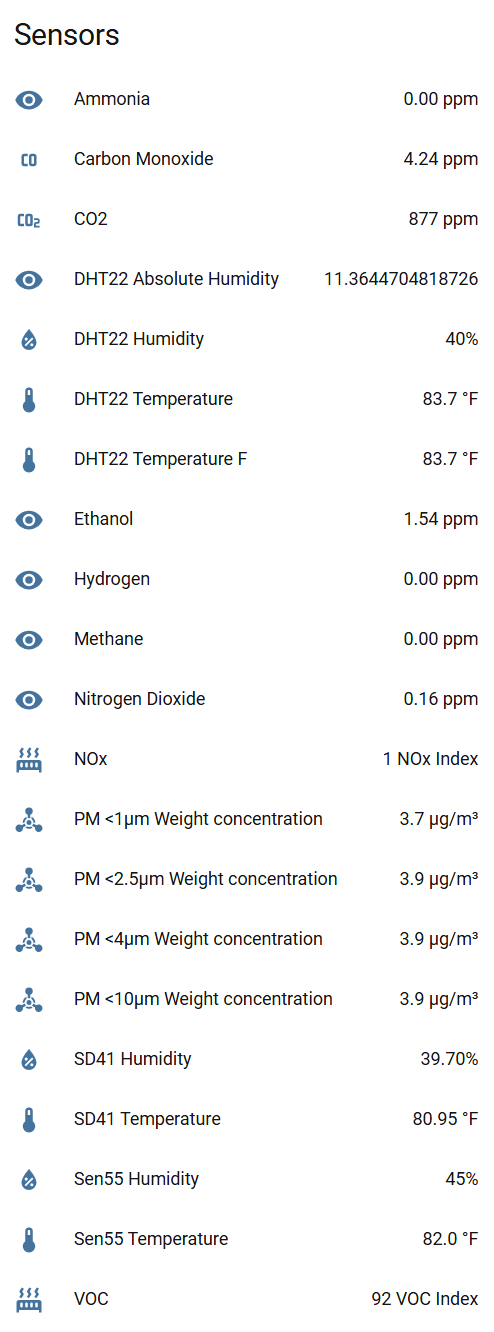
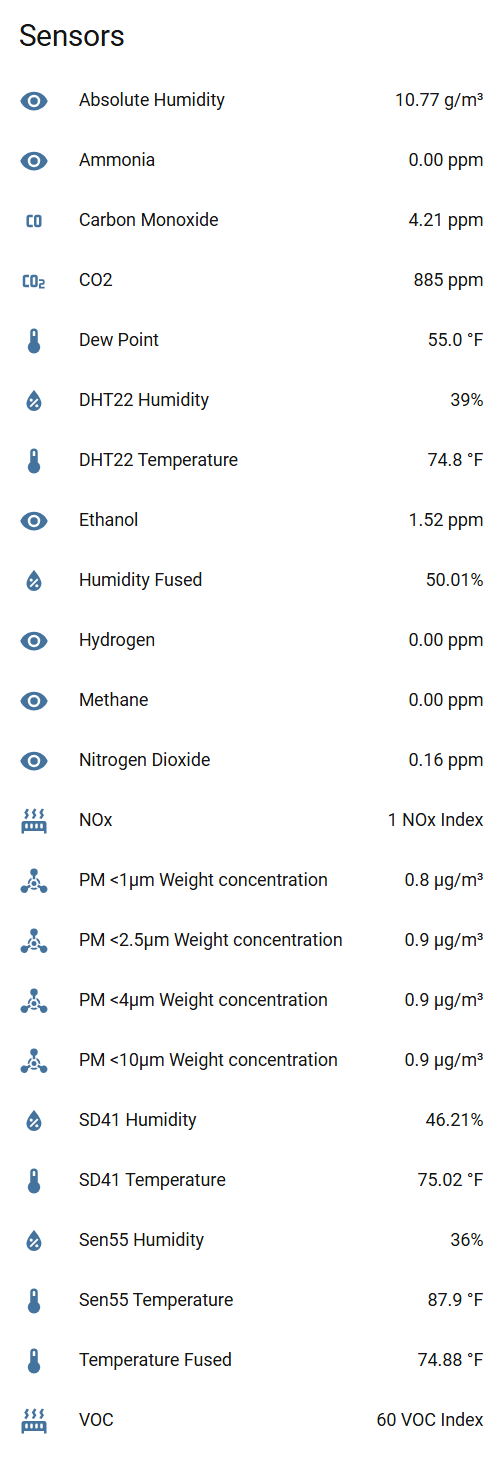
updates

diff --git a/README.md b/README.md
@@ -64,6 +64,8 @@ All 3D printable files and print profiles for the enclosures are hosted on Maker
 
 **This is not a safety device.** The MICS-4514 is an uncalibrated metal-oxide sensor whose readings drift substantially with temperature and humidity; its ppm figures are useful as relative trends, not absolute concentrations. Do not rely on the carbon monoxide reading for life safety — use a certified CO alarm. The same applies to the methane channel and gas leak detection.
 
+This project was made partially with assistance using Claude. 3D models were designed manually using OnShape.
+
 ---
 
 ## Wiring
@@ -153,7 +155,7 @@ BL - grey - GPIO32
 
 <img src="Images/sensors.png" alt="alt text" width="300">
 
-1) Sensor data exposed to home assistant.
+1) Sensor data exposed to home assistant shown above.  Note "Temperature Fused" and "Humidity Fused" are caculated from all 3 sensors and adjusted by known sensor accuracy.  Absolute Humidity and Dew Point are also calculated from the fused data.
 2) Wifi data also available "Diagnostic" panel - not pictured.
 
 ---
@@ -167,14 +169,25 @@ action: esphome.skynet_multisensor_set_ambient_pressure
 data:
   pressure_mbar: "{{ states('sensor.air_pressure') | int(0) }}"
 ```
+You can see the last "sent" pressure and how long ago it was updated to make sure your automation is feeding ESPHome correctly.
 
-2) Temperature bias - there are three sensors that report temps (DHT22, SCD41, SEN55).  Care was taken to try to thermally isolate, but they still may experience local heating as the whole sensor package warms up over time.  Let the device become room temperature (off for an hour) and then start it up.  Under the Diagnostic window in home assistant you'll find Boot temps and Warm temps (after 30 min) from the sensors, and a Bias estimate which is how much the temp rose (assuming the room stayed the same over those 30 minutes).  Put these values in the esphome YAML file, at the top under substiutions you'll find "bias_dht", "bias_scd", and "bias_sen".  Bias_SCD has a manufacture default of 4C.  If you measure something different, replace this (don't add/subtract from it).
+<img src="Images/Pressure1.png" alt="alt text" width="300">
+<img src="Images/Pressure2.png" alt="alt text" width="300">
+
+2) Temperature bias - there are three sensors that report temps (DHT22, SCD41, SEN55).  Care was taken to try to thermally isolate, but they still  experience local heating as the whole sensor package warms up over time.  Let the device become cold/room temperature (off for at least an hour) and then start it up.  Under the Diagnostic window in home assistant you'll find Boot temps and Warm temps (after 30 min) from the sensors, and a Bias estimate which is how much the temp rose (assuming the room stayed the same over those 30 minutes).  Put these values in the esphome YAML file, at the top under substiutions you'll find "bias_dht", "bias_scd", and "bias_sen".  I have the offsets I measured on mine as the defaults.
+
+<img src="Images/TempCorrection1.png" alt="alt text" width="300">
+<img src="Images/TempCorrection2.png" alt="alt text" width="300">
+<img src="Images/TempCorrection3.png" alt="alt text" width="200">
 
 3) If you REALLY want you can calibrate the relative humidity with a salt calibration, these values are also in the YAML "rhbias_dht", etc.
 
 4) SCD41 CO2 Automatic self-calibration assumes the sensor sees ~400 ppm background weekly. If this lives in a room that never fully vents, ASC will drag your baseline wrong and you won't know. There is a forced-calibration button (target 420 ppm, after 3+ min outdoors) so you can correct it without reflashing.  You will need to set "scd_asc" to false in the yaml if you plan on occasional manual outdoor calibrations, otherwise it will auto-calibrate back to the room CO2 in a week.  There is an ARM CO2 Calibration button that needs to be on first, to prevent accidental calibration runs.  Let it power on outside for 5 minutes to let the readings settle before running calibration.  If your outdoor CO2 isn't around 420, this can be adjusted in the YAML as well to calibrate it to the current outdoor CO2.
 
-5) The Sen55 will autoclean weekly.  There is a button exposed to home assistant if you would like to manually trigger a clean (the fan spins up to ~10s at full speed to blow it clear.)
+<img src="Images/CO2Calibration.png" alt="alt text" width="300">
+
+5) The Sen55 will autoclean weekly.  There is a button exposed to home assistant - "Clean SEN55 Fan" - if you would like to manually trigger a clean (the fan spins up to ~10s at full speed to blow it clear.)
+
 ---
 
 ## References
